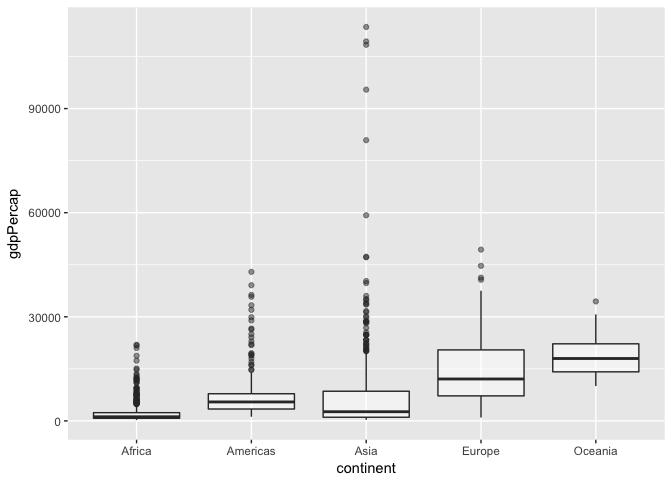
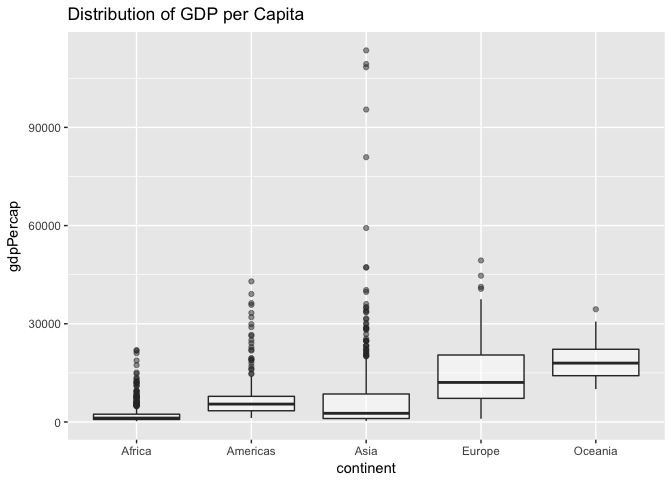
Added graph labels (incomplete push last time)

diff --git a/hw03/Process-Report.md b/hw03/Process-Report.md
@@ -6,6 +6,8 @@
 
 * Didn't know how to declare a variable as the output of piping. Found a solution in one of the lectures.
 
-* I took inspiration for many of my graphs from from [Jenny Bryan's deck on ggplot](https://speakerdeck.com/jennybc/ggplot2-tutorial). In particular for examples of how to use `facet_wrap()` and `geom_smooth()`
+* I took inspiration for many of my graphs from from [Jenny Bryan's deck on ggplot](https://speakerdeck.com/jennybc/ggplot2-tutorial). In particular for examples of how to use `facet_wrap()` and `geom_smooth()`.
 
-*
+* I chose the `method` for `geom_smooth()` either by using `auto` or whichever method gave me a fitting line.
+
+* I figured out how to label my graphs from one of the students I peer reviewed for Assignment 2.
